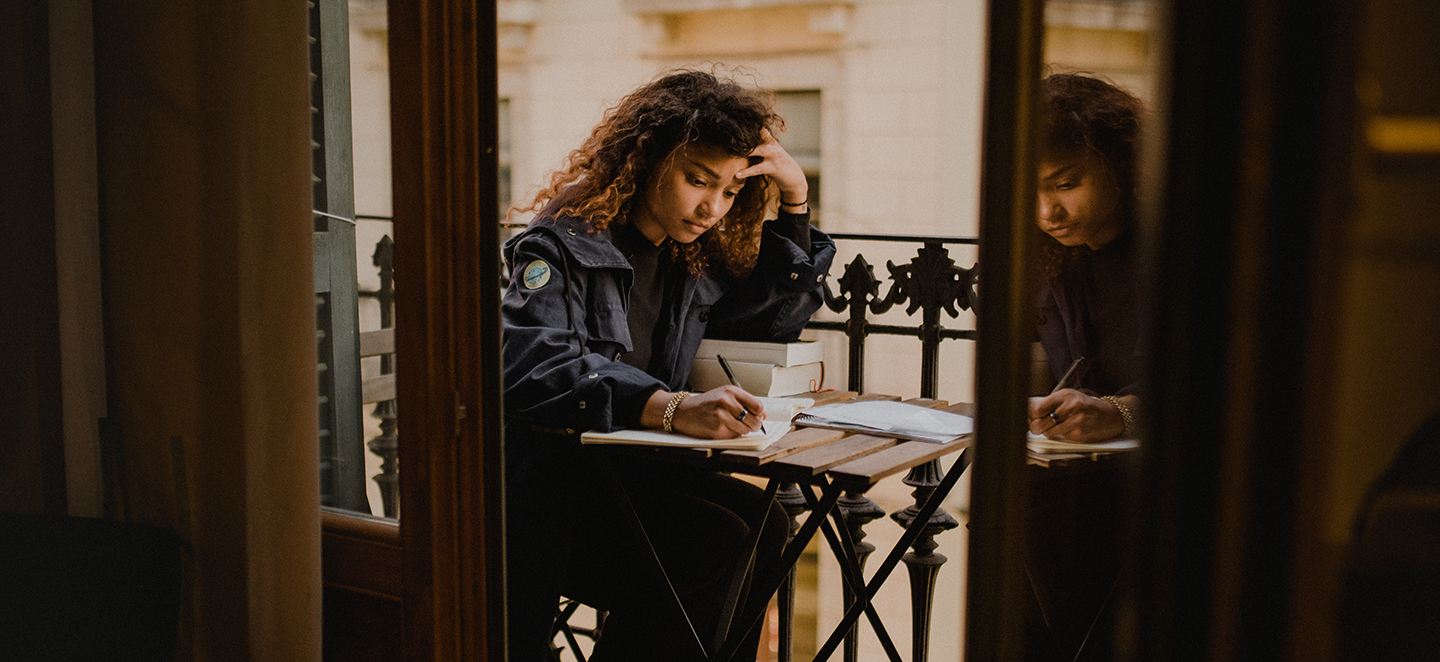
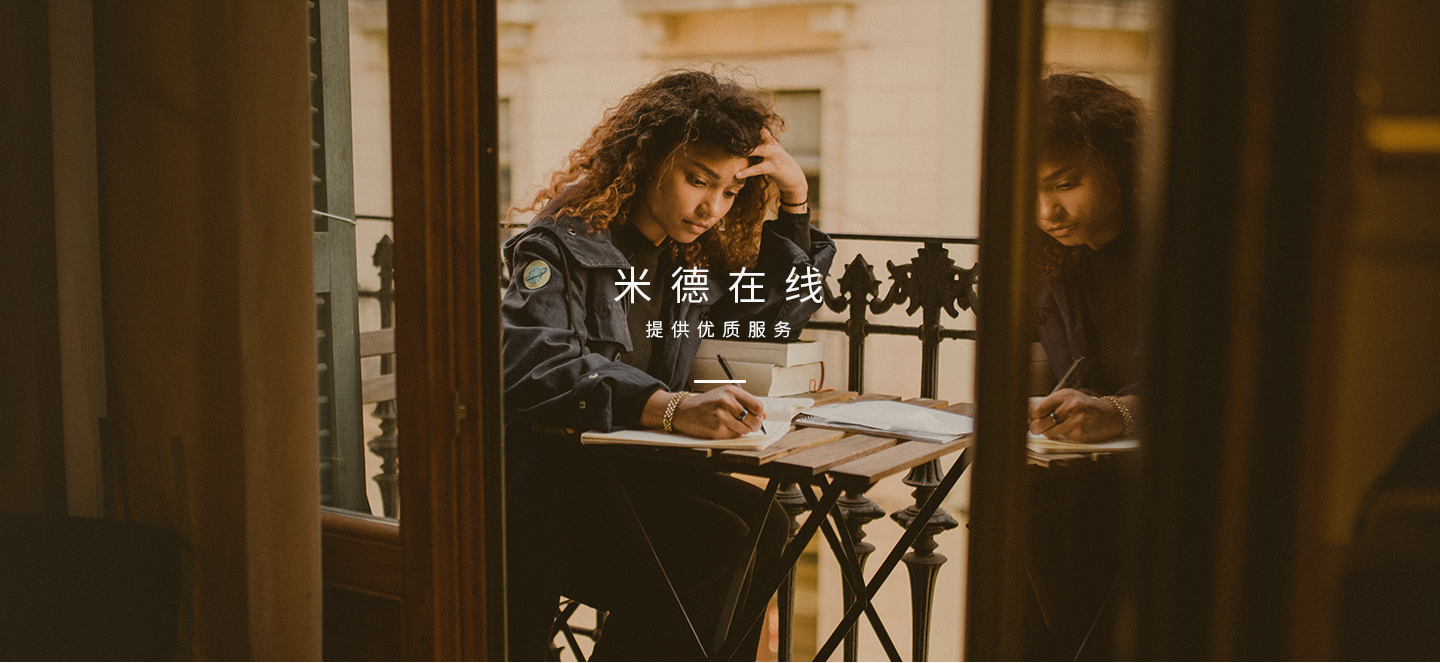
commit

diff --git a/德语录播课程.html b/德语录播课程.html
@@ -1,0 +1,189 @@
+<!DOCTYPE html>
+<html>
+
+<head>
+    <title>关于我们</title>
+    <meta http-equiv="Content-Type" content="text/html; charset=UTF-8">
+    <meta content="width=device-width,initial-scale=1.0,user-scalable=yes,minimum-scale=1.0,maximum-scale=3.0" id="viewport" name="viewport">
+    <meta content="#ffffff" name="theme-color">
+    <meta content="米德在线">
+    <meta name="viewport" content="width=device-width, initial-scale=1">
+
+    <link rel="stylesheet" href="http://cdn.staticfile.org/twitter-bootstrap/3.3.7/css/bootstrap.min.css">
+    <link rel="stylesheet" media="screen" href="./css/main.bundle.css">
+    <link href="./img/mi.png" rel="shortcut icon" type="image/x-icon">
+
+
+    <script src="http://cdn.staticfile.org/jquery/2.1.1/jquery.min.js "></script>
+    <script src="http://cdn.staticfile.org/twitter-bootstrap/3.3.7/js/bootstrap.min.js "></script>
+    <link rel="stylesheet" href="css/bootstrap-grid.min.css">
+    <link rel="stylesheet" type="text/css" href="css/htmleaf-demo.css">
+    <link rel="stylesheet" type="text/css" href="css/style2.css">
+</head>
+
+<body>
+    <div class="container-fluid" style="padding: 0px">
+        <div class="navigator s-navbar-section" id="s-header">
+            <div class="strikingly-fixed s-bg-light-text" id="s-nav">
+                <div class="s-nav-inner">
+                    <div class="s-nav-table">
+                        <div class="logo">
+                            <h2 class="logo-title" style="cursor: pointer;">
+                                <div class="s-component s-text">
+                                    <div class="s-component-content s-font-title">
+                                        <img src="img/logo.png" />
+                                    </div>
+                                </div>
+                            </h2>
+                        </div>
+                        <ul class="s-nav">
+                            <li><a class="s-nav-item selected" target="_self" href="http://www.findyourmantra.com.cn/"><span
+                                class="s-font-body">首页</span></a></li>
+                            <li><a class="s-nav-item" target="_self" href="http://www.findyourmantra.com.cn/4"><span class="s-font-body">米德团队</span></a></li>
+                            <li><a class="s-nav-item" target="_self" href="http://www.findyourmantra.com.cn/1"><span class="s-font-body">关于我们</span></a></li>
+                            <li><a class="s-nav-item" target="_self" href="http://www.findyourmantra.com.cn/2"><span class="s-font-body">联系我们</span></a></li>
+                            <div id="loginContainer"></div>
+                            <li id="s-ecommerce-nav-shopping-cart-wrapper" class="s-ecommerce-nav-shopping-cart-wrapper hidden"></li>
+                        </ul>
+                    </div>
+                </div>
+            </div>
+        </div>
+        <div class="waypoint"></div>
+        <a class="section-anchor" style="top: -997px;"></a>
+        <div>
+            <img class="img-responsive center-block" src="img/banner德语课程.png" style="width:100%;">
+        </div>
+        <div class="row" style="padding-left: 25%; padding-right: 20%;">
+
+            <div class="column col-xs-12 col-sm-12 col-md-12" style="padding-top:30px">
+                <div class="demo row">
+                    <div class="column col-xs-12 col-sm-12 col-md-6">
+                        <div class="box">
+                            <div style="position:relative;">
+                                <img class="img-responsive" src="img/德语A1.png">
+                            </div>
+                            <div class="boxContent">
+                                <h3>姓名姓名姓名</h3>
+                                <div style=" width:40px; ">
+                                    <hr style="height:5px;border:none;border-top:5px solid hsl(40, 75%, 2%); " />
+                                </div>
+                                <p>个人介绍个人介绍个人介绍</p>
+                            </div>
+                        </div>
+                    </div>
+
+                    <div class="column col-xs-12 col-sm-12 col-md-6 ">
+                        <div class="box">
+                            <img class="img-responsive" src="img/德语A1.png">
+                            <div class="boxContent" style="padding-left: 5%; padding-right: 5%;">
+                                <h3>姓名姓名姓名</h3>
+                                <div style=" width:40px; ">
+                                    <hr style="height:5px;border:none;border-top:5px solid hsl(40, 75%, 2%); " />
+                                </div>
+                                <p>个人介绍个人介绍个人介绍</p>
+                            </div>
+                        </div>
+                    </div>
+
+                    <div class="column col-xs-12 col-sm-12 col-md-6 " style="padding-top:30px; padding-bottom: 30px">
+                        <div class="box">
+                            <img class="img-responsive" src="img/德语A1.png">
+                            <div class="boxContent" style="padding-left: 5%; padding-right: 5%;">
+                                <h3>姓名姓名姓名</h3>
+                                <div style=" width:40px; ">
+                                    <hr style="height:5px;border:none;border-top:5px solid hsl(40, 75%, 2%); " />
+                                </div>
+                                <p>个人介绍个人介绍个人介绍</p>
+                            </div>
+                        </div>
+                    </div>
+                    <div class="column col-xs-12 col-sm-12 col-md-6 " style="padding-top:30px; padding-bottom: 30px">
+                        <div class="box">
+                            <img class="img-responsive" src="img/德语A1.png">
+                            <div class="boxContent" style="padding-left: 5%; padding-right: 5%;">
+                                <h3>姓名姓名姓名</h3>
+                                <div style=" width:40px; ">
+                                    <hr style="height:5px;border:none;border-top:5px solid hsl(40, 75%, 2%); " />
+                                </div>
+                                <p>个人介绍个人介绍个人介绍</p>
+                            </div>
+                        </div>
+                    </div>
+                </div>
+            </div>
+            <div class="column col-xs-12 col-sm-12 col-md-12" style="padding-bottom: 30px">
+                <img src="img/更多精品课程.png" />
+            </div>
+        </div>
+
+        <div class=" row " style="background:#000; color:#FFF ">
+            <div class="clearfix " style="left: 20%; width: 60%;padding-top:40px; padding-bottom: 40px; ">
+                <div class="column col-xs-12 col-sm-12 col-md-4 " style="padding-top:15px; ">
+                    <div class="row ">
+                        <div class="cloumn col-xs-12 col-sm-12 col-md-12 " style="height:30px; ">
+                            <div style="line-height: 0px; font-size: 20px ">
+                                <p>米德平台</p>
+                            </div>
+                            <div style=" width:30px; ">
+                                <hr style="height:5px;border:none;border-top:5px solid hsl(41, 100%, 40%); " />
+                            </div>
+                        </div>
+                        <div class="column col-xs-12 col-sm-12 col-md-12 ">
+
+                            <div>
+                                <p>微博：@米西德语 @老狼德语</p>
+                            </div>
+                            <div>
+                                <p>公众号：MIDEZAIXIAN</p>
+                            </div>
+                            <div>
+                                <p>小程序：德语网课</p>
+                            </div>
+                            <div>
+                                <p>CCTALK公开课群：515555</p>
+                            </div>
+                            <div>
+                                <p>CCTALK会员群：82635920</p>
+                            </div>
+                        </div>
+                    </div>
+                </div>
+                <div class=" column col-xs-12 col-sm-12 col-md-4 " style="padding-top:15px; ">
+                    <div class="row ">
+                        <div class="cloumn col-xs-12 col-sm-12 col-md-12 " style="height:30px; ">
+                            <div style="line-height: 0px; font-size: 20px ">
+                                <p>合作机构</p>
+                            </div>
+                            <div style=" width:30px; ">
+                                <hr style="height:5px;border:none;border-top:5px solid hsl(41, 100%, 40%); " />
+                            </div>
+
+                        </div>
+                        <div class="column col-xs-12 col-sm-12 col-md-12 ">
+                            <div>
+                                <p>留德小助手</p>
+                            </div>
+                        </div>
+                    </div>
+                </div>
+                <div class="column col-xs-12 col-sm-12 col-md-4 ">
+                    <div class="clearfix ">
+                        <div class="row ">
+                            <div class="cloumn col-xs-12 col-sm-12 col-md-12 ">
+                                <div><img class="img-responsive center-block " src="img/二维码.png " class="center-block "></div>
+                            </div>
+                            <div class="cloumn col-xs-12 col-sm-12 col-md-12 " style="padding-top:5px; ">
+                                <div class="text-center " style="font-size: 10px ">
+                                    <p>扫一扫了解更多</p>
+                                </div>
+                            </div>
+                        </div>
+                    </div>
+                </div>
+            </div>
+        </div>
+    </div>
+</body>
+
+</html>

diff --git a/米德在线.html b/米德在线.html
@@ -53,13 +53,6 @@
             <div class="carousel-inner">
                 <div class="item active">
                     <img src="img/轮播图.png" alt="First slide" class="img-responsive center-block" style="width:100%">
-                    <div class="carousel-caption" style="height:60%">
-                        <h1 style="letter-spacing:20px;">米德在线</h1>
-                        <h4 style="letter-spacing:8px;">提供优质服务</h4>
-                        <center>
-                            <hr width="10%" align="center" style="height:5px;border:none;border-top:5px solid rgb(240, 239, 237); " size=1;></hr>
-                        </center>
-                    </div>
                 </div>
                 <div class="item">
                     <img src="img/轮播图.png" alt="Second slide" class="img-responsive center-block" style="width:100%">

diff --git a/css/style2.css b/css/style2.css
@@ -12,11 +12,12 @@
 .box .boxContent {
     width: 80%;
     height: 100%;
+    opacity: 1;
     position: absolute;
     top: 0;
     left: 0;
     padding: 30px;
-    background: #bb6e09bf;
+    background: #f88e04bf;
     border: 4px solid rgba(255, 255, 255, 0.10);
     -webkit-transform: rotate(90deg);
     transform: rotate(90deg);
